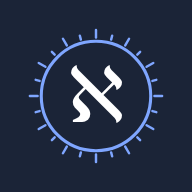
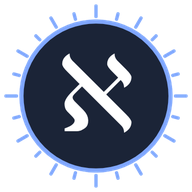
Add files via upload

diff --git a/index.html b/index.html
@@ -4,7 +4,7 @@
 <meta name="theme-color" content="#1b2437">
 <link rel="manifest" href="manifest.webmanifest">
 <link rel="icon" href="icon-192.png">
-<link rel="apple-touch-icon" href="icon-192.png">
+<link rel="apple-touch-icon" href="apple-touch-icon.png">
 <title>Stock</title>
 <style>
 /* Idea: una sola pantalla de trabajo, pensada para el pulgar. Buscar arriba, el libro con su Dep 1 enorme en el medio,
@@ -486,7 +486,7 @@ if("serviceWorker" in navigator)window.addEventListener("load",function(){naviga
     $('btnSin').setAttribute('aria-pressed', 'false'); $('btnCero').setAttribute('aria-pressed', 'false');
   }
   var sel = -1, pend = 0, res = [], toastT = null;
-  var PEDIDOS = [], PEDABIERTO = null, PEDVOLVER = null;   // pedidos recibidos/enviados: [{id, t, items:[[cod,cant]], hechos:{cod:1}, de, para, mio}]
+  var PEDBORR = {}, PEDIDOS = [], PEDABIERTO = null, PEDVOLVER = null;   // pedidos recibidos/enviados: [{id, t, items:[[cod,cant]], hechos:{cod:1}, de, para, mio}]
   var PAG = 0, PAG_ULT = '', TAM = 15;     // resultados por página
   var CONTEO = {}, ORDEN = [], ULTLIB = null;    // conteo por escáner: código -> {cod, tit, n}
 
@@ -1565,10 +1565,12 @@ if("serviceWorker" in navigator)window.addEventListener("load",function(){naviga
   function pedCompleto(p) { return p.items.length && p.items.every(function (x) { return p.hechos && p.hechos[x[0]]; }); }
   function agregarPedido(m, mio) {                    // true si era nuevo
     var id = m.id || ('p' + Date.now().toString(36));
-    if (PEDIDOS.some(function (p) { return p.id === id; })) return false;
+    if (PEDBORR[id] || PEDIDOS.some(function (p) { return p.id === id; })) return false;
+    if (PEDIDOS.length >= 40 && (m.t || 0) < PEDIDOS[0].t) return false;
     var it = limpiarItems(m.pedido);
     if (!it.length) return false;
     PEDIDOS.push({ id: id, t: m.t || Date.now(), items: it, hechos: {}, de: m.de || '', para: m.paraNombre || '', mio: !!mio });
+    PEDIDOS.sort(function (a, b) { return a.t - b.t; });
     guardarPedidos();
     return true;
   }
@@ -1638,7 +1640,7 @@ if("serviceWorker" in navigator)window.addEventListener("load",function(){naviga
     var del = document.createElement('button'); del.type = 'button'; del.className = 'btn ancho'; del.style.marginTop = '12px'; del.textContent = 'Borrar este pedido';
     del.addEventListener('click', function () {
       if (!confirm('¿Borrar este pedido de este teléfono?')) return;
-      PEDIDOS = PEDIDOS.filter(function (x) { return x.id !== p.id; }); PEDABIERTO = null; guardarPedidos(); pintarPedidos();
+      PEDIDOS = PEDIDOS.filter(function (x) { return x.id !== p.id; }); PEDBORR[p.id] = 1; guardar('pedborr', PEDBORR); PEDABIERTO = null; guardarPedidos(); pintarPedidos();
     });
     c.appendChild(del);
   }
@@ -1675,9 +1677,10 @@ if("serviceWorker" in navigator)window.addEventListener("load",function(){naviga
       var ids = Object.keys(d).sort(function (a, b) { return (d[a].t || 0) - (d[b].t || 0); });
       var yo = normNombre(CFG.nombre);
       ids.forEach(function (id) {
+        var m = d[id] || {};
+        if (m.pedido && (!m.para || m.para === yo)) { m.id = id; if (agregarPedido(m, false) && $('vistaPedidos') && !$('vistaPedidos').hidden && !PEDABIERTO) pintarPedidos(); }   // los pedidos se guardan aunque el aviso ya se haya visto
         if (MSGV[id]) return;
         MSGV[id] = 1;
-        var m = d[id] || {};
         if (!MSGINI) return;                        // la primera vez no se muestran los viejos
         if (m.para && m.para !== yo) return;
         if (m.texto) { m.id = id; if (m.pedido) agregarPedido(m, false); MSGQ.push(m); }
@@ -2381,9 +2384,10 @@ if("serviceWorker" in navigator)window.addEventListener("load",function(){naviga
   } catch (e) {}
 
   pintarVacio();
-  Promise.all([leer('csv'), leer('mov'), leer('cfg'), leer('conteo'), leer('ubic'), leer('pedidos')]).then(function (r) {
+  Promise.all([leer('csv'), leer('mov'), leer('cfg'), leer('conteo'), leer('ubic'), leer('pedidos'), leer('pedborr')]).then(function (r) {
     var c = r[0], m = r[1], g = r[2], cn = r[3], ub = r[4];
     if (r[5] && r[5].length) PEDIDOS = r[5];
+    if (r[6] && typeof r[6] === 'object') PEDBORR = r[6];
     if (ub && ub.m && m && ub.ses === m.ses) { UBIC = ub.m; UBICPEND = ub.p || {}; }
     if (cn && cn.c && cn.o) { CONTEO = cn.c; ORDEN = cn.o; }
     if (g) { Object.keys(g).forEach(function (k) { CFG[k] = g[k]; }); }

diff --git a/sw.js b/sw.js
@@ -1,4 +1,4 @@
-const V="mrstock-v46",A=["./","index.html","manifest.webmanifest","icon-192.png","icon-512.png","zxing.min.js"];
+const V="mrstock-v48",A=["./","index.html","manifest.webmanifest","icon-192.png","icon-512.png","zxing.min.js"];
 self.addEventListener("install",e=>{e.waitUntil(caches.open(V).then(c=>c.addAll(A)));self.skipWaiting();});
 self.addEventListener("activate",e=>{e.waitUntil(caches.keys().then(k=>Promise.all(k.filter(x=>x!==V).map(x=>caches.delete(x)))));self.clients.claim();});
 self.addEventListener("fetch",e=>{e.respondWith(fetch(e.request).then(r=>{const c=r.clone();caches.open(V).then(x=>x.put(e.request,c));return r;}).catch(()=>caches.match(e.request)));});
